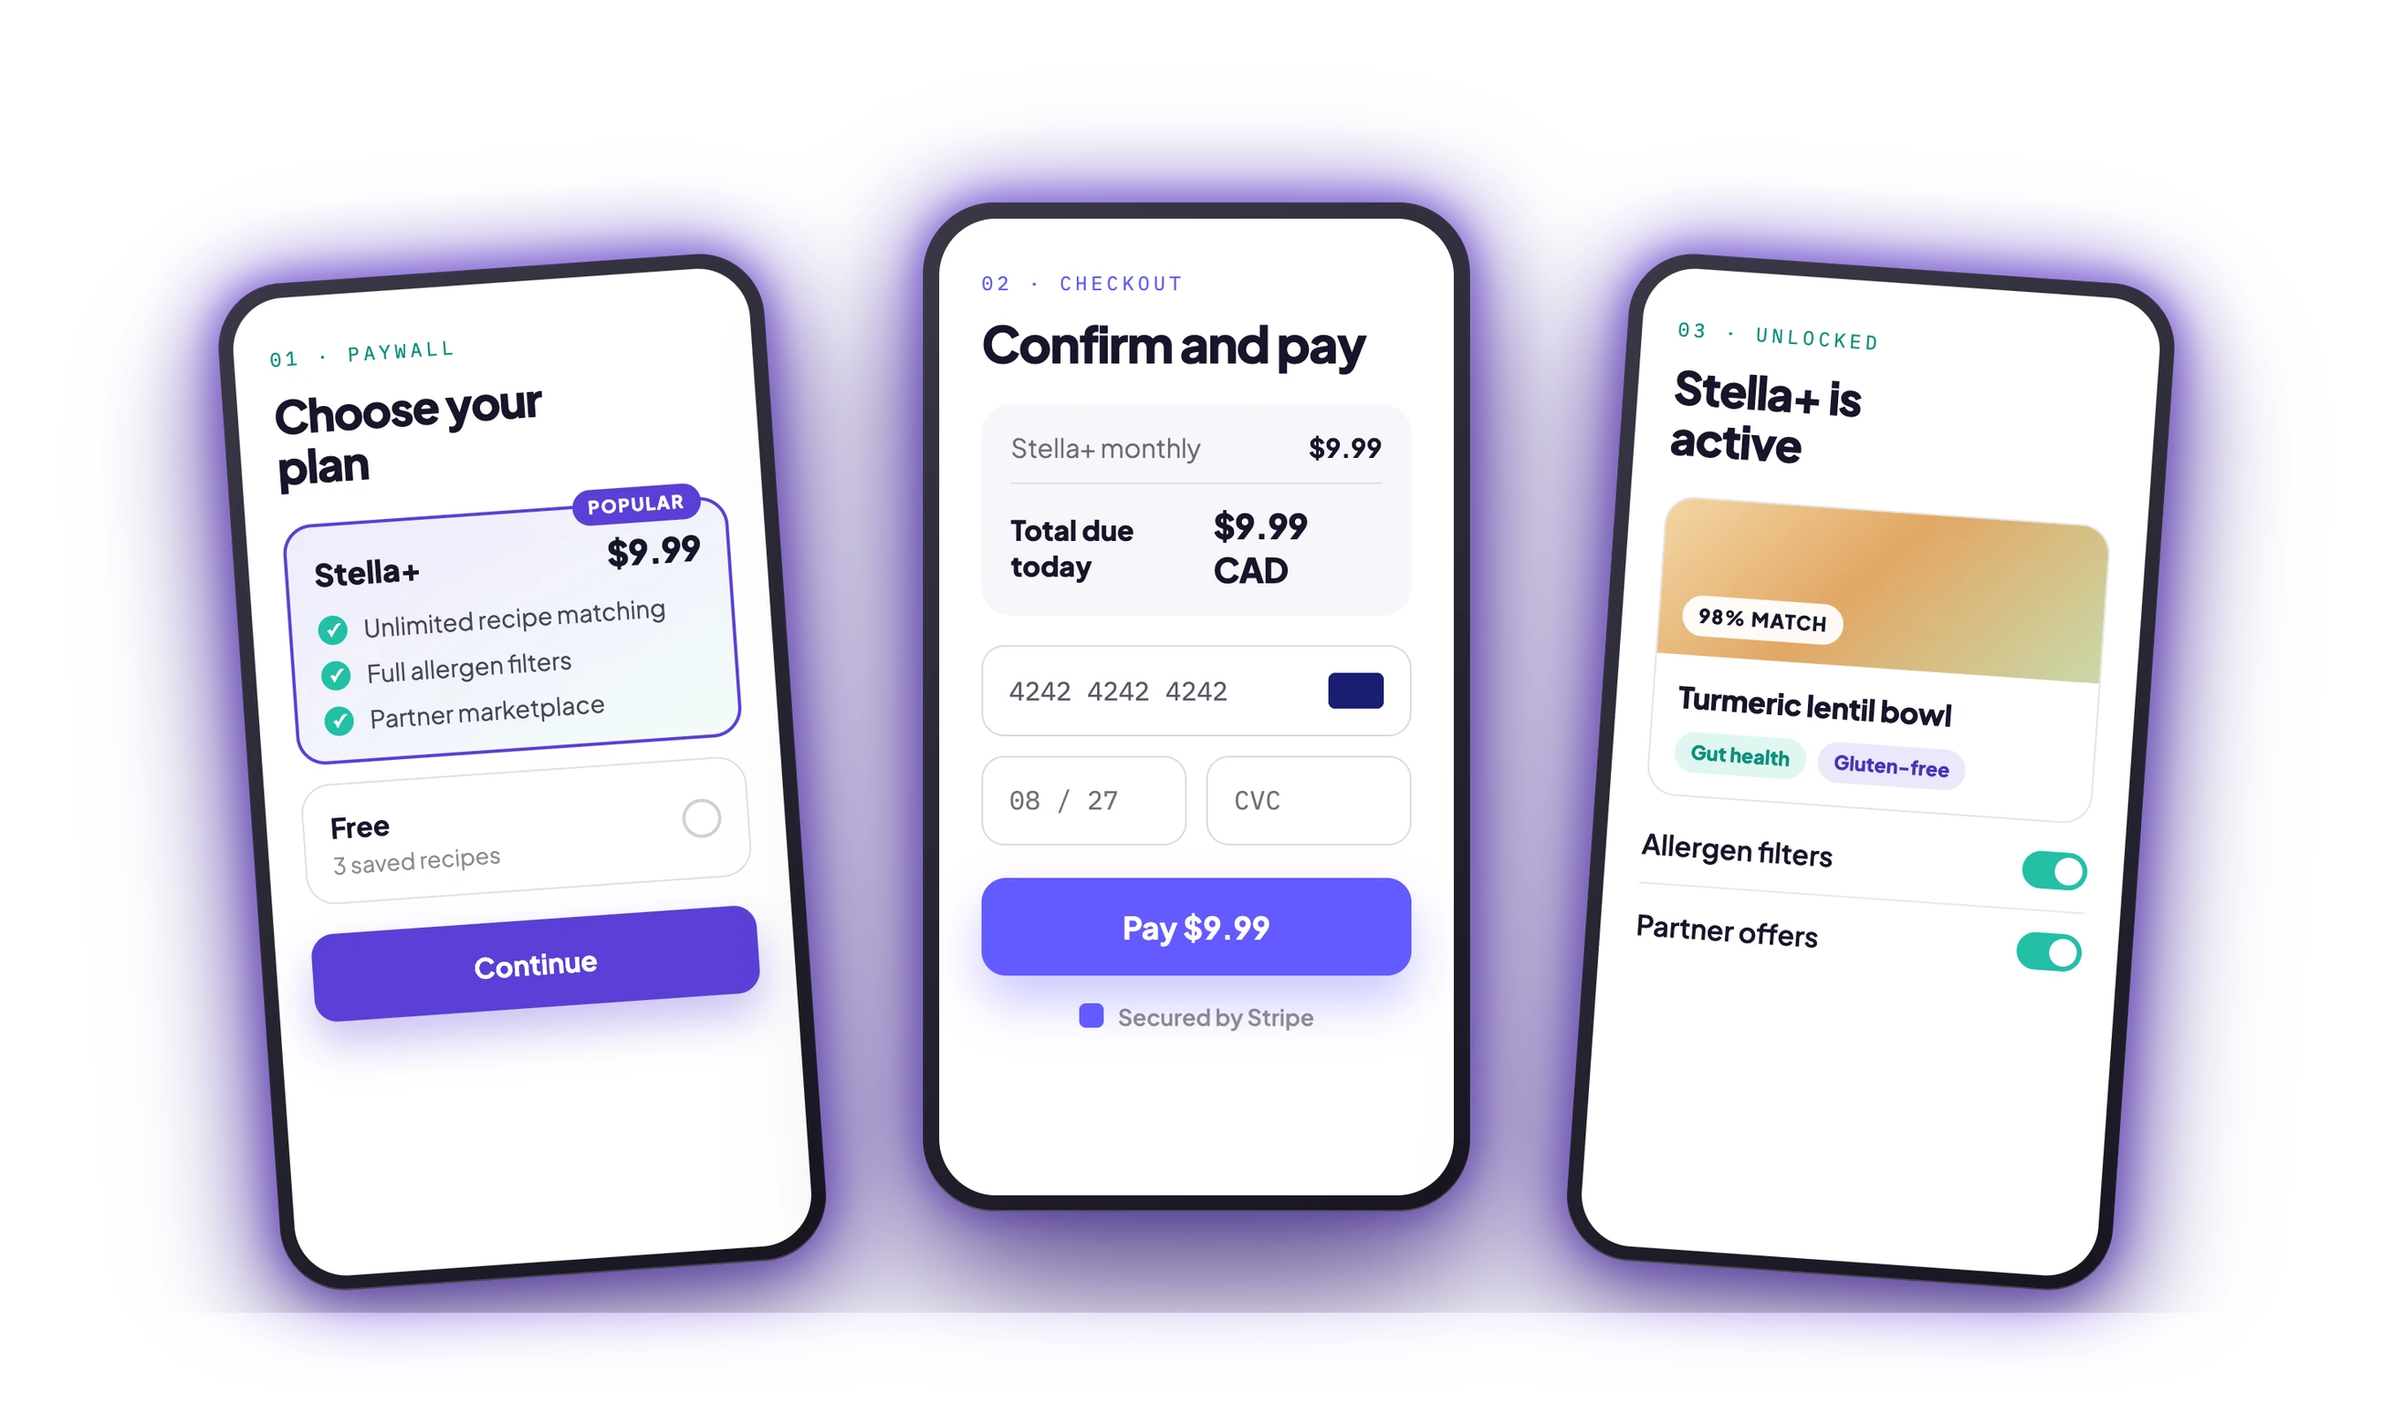
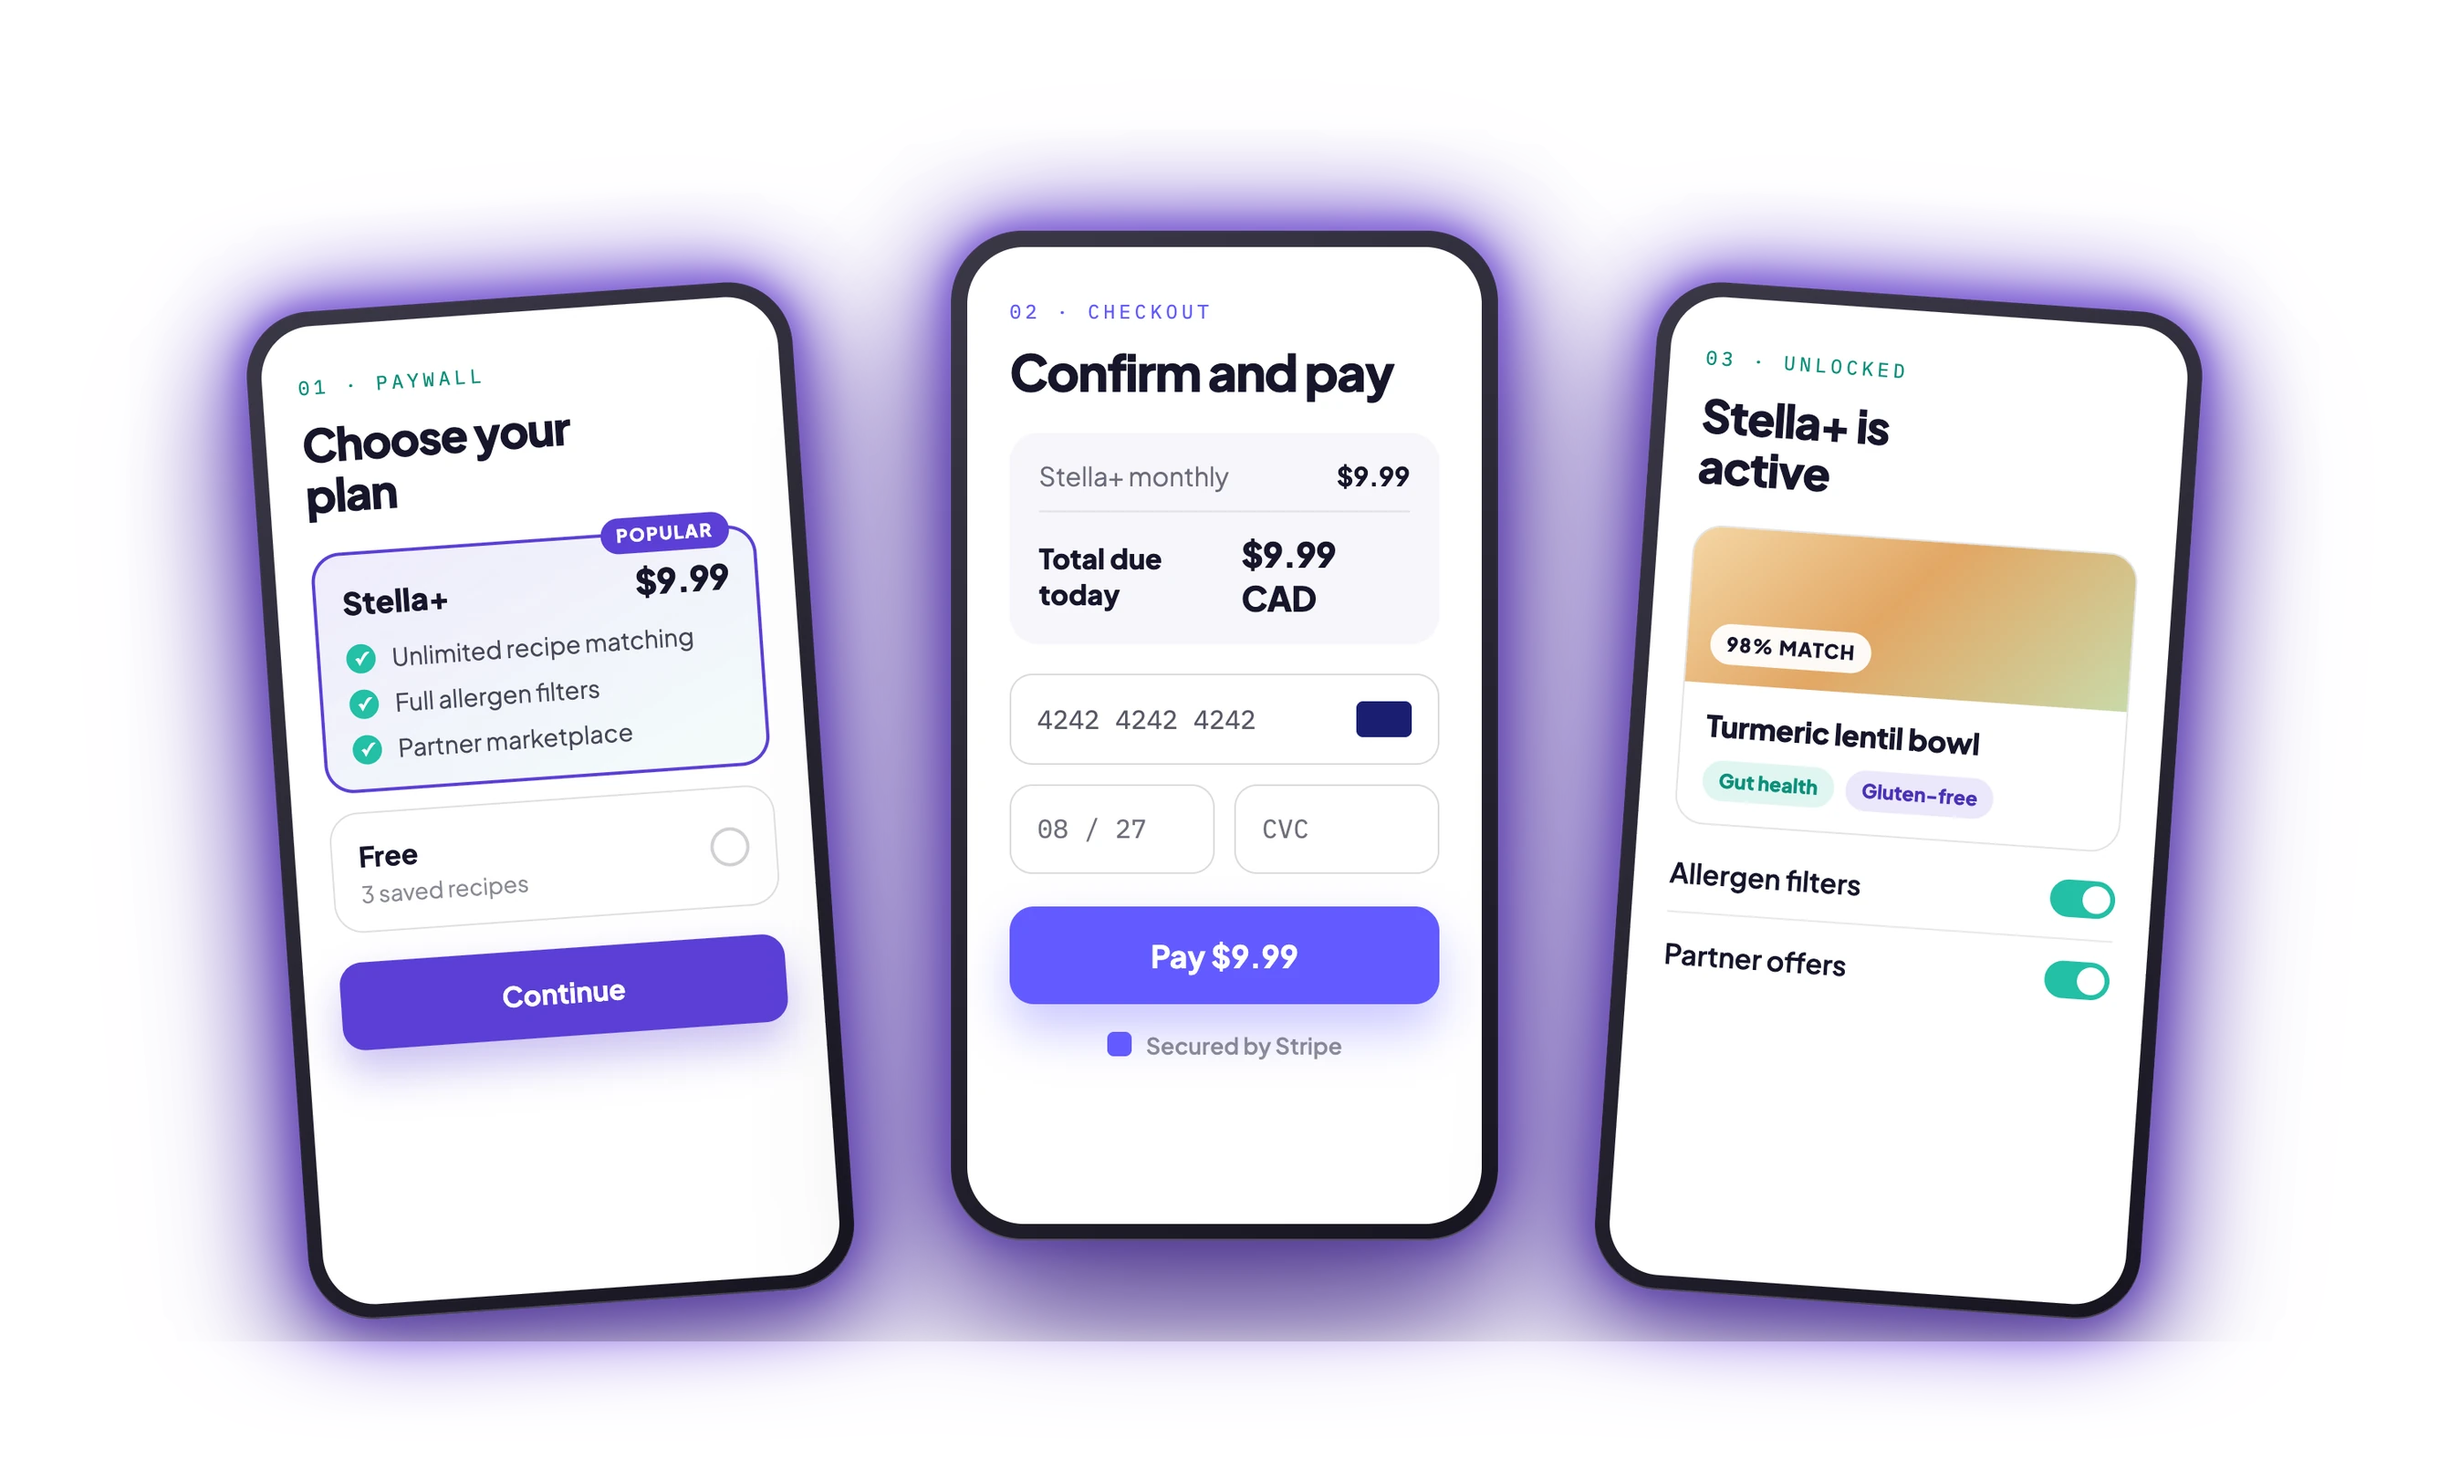
match all project glows to shopify intensity

Changed region(s): [[0.0618, 0.1239, 0.9268, 0.96], [0.4325, 0.3097, 0.4943, 0.3406]]

diff --git a/src/style.css b/src/style.css
@@ -1441,10 +1441,10 @@ body {
   width: 100%;
   height: auto;
   margin: 0 auto;
-  /* Shape-following glow using the image alpha */
-  filter: drop-shadow(0 0 25px rgba(11, 102, 146, 0.6))
-    drop-shadow(0 0 45px rgba(11, 102, 146, 0.5))
-    drop-shadow(0 0 70px rgba(11, 102, 146, 0.35));
+  /* Glow matched to the Shopify page's perceived intensity */
+  filter: drop-shadow(0 0 18px rgba(11, 102, 146, 0.9))
+    drop-shadow(0 0 36px rgba(11, 102, 146, 0.64))
+    drop-shadow(0 0 70px rgba(11, 102, 146, 0.43));
 }
 
 /* Disable default GradePad container glow when using shape-following image glow */
